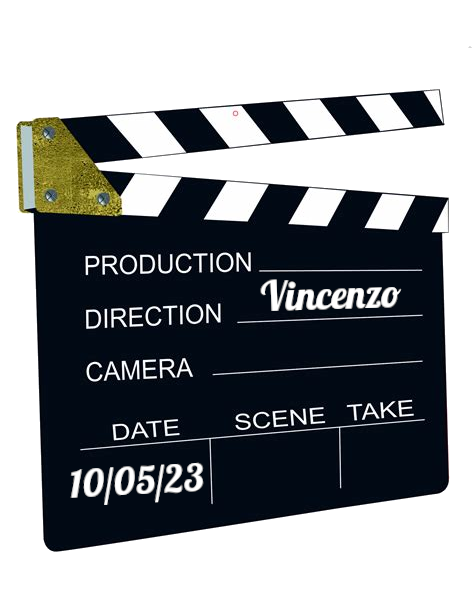
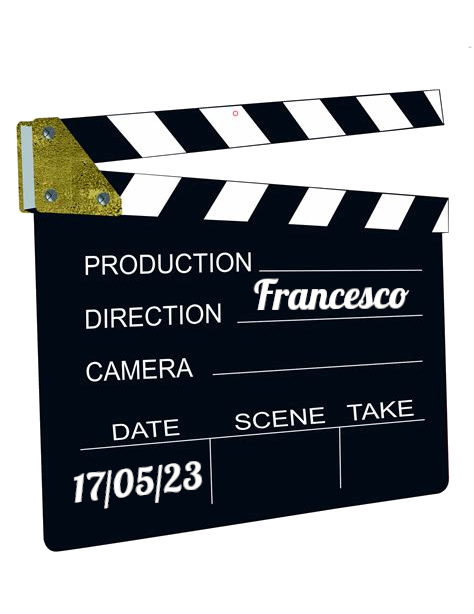
Parole 2

Changed region(s): [[0.5316, 0.4332, 0.8565, 0.5261], [0.1477, 0.7427, 0.443, 0.8355]]

diff --git a/index.html b/index.html
@@ -34,9 +34,18 @@
 
 <br /><br />
 
-<h1>Mercoled&igrave; 10 maggio 2023</h1>
+<h1>Mercoled&igrave; 17 maggio 2023</h1>
 <h2>Alle 20:30 in Via Nizza, 72</h2>
 <img src="img/ciak.png" class="locandina"/>
+<h2>Tema: <i>Parole</i> - Selezionatore: <i>Francesco</i></h2>
+
+<br /><br /><hr width="90%"><hr width="90%"><br /><br />
+
+<h1>Mercoled&igrave; 10 maggio 2023</h1>
+<p class="mtitle">
+<a href="https://www.imdb.com/title/tt14034966" target="_blank">Il gioco del destino e della fantasia</a>
+</p>
+<img src="https://image.tmdb.org/t/p/w500/8A1e5UYU9V4WieFJ2fqg9VCQUYY.jpg" class="locandina"/>
 <h2>Tema: <i>Parole</i> - Selezionatore: <i>Vincenzo</i></h2>
 
 <br /><br /><hr width="90%"><hr width="90%"><br /><br />

diff --git a/movieslist.html b/movieslist.html
@@ -29,6 +29,17 @@ Rassegnamoci, Cineforum a Programma Variabile - Elenco Film
   </thead>
   <tbody>
     <tr>
+      <td>10-May-2023</td>
+      <td>Il gioco del destino e della fantasia</td>
+      <td>Vincenzo</td>
+      <td>Parole</td>
+      <td>2021</td>
+      <td>Ryusuke Hamaguchi</td>
+      <td>121</td>
+      <td>JP</td>
+      <td><a href="https://www.imdb.com/title/tt14034966" target="_blank">https://www.imdb.com/title/tt14034966</a></td>
+    </tr>
+    <tr>
       <td>3-May-2023</td>
       <td>Storia di una ladra di libri</td>
       <td>Adriana</td>
